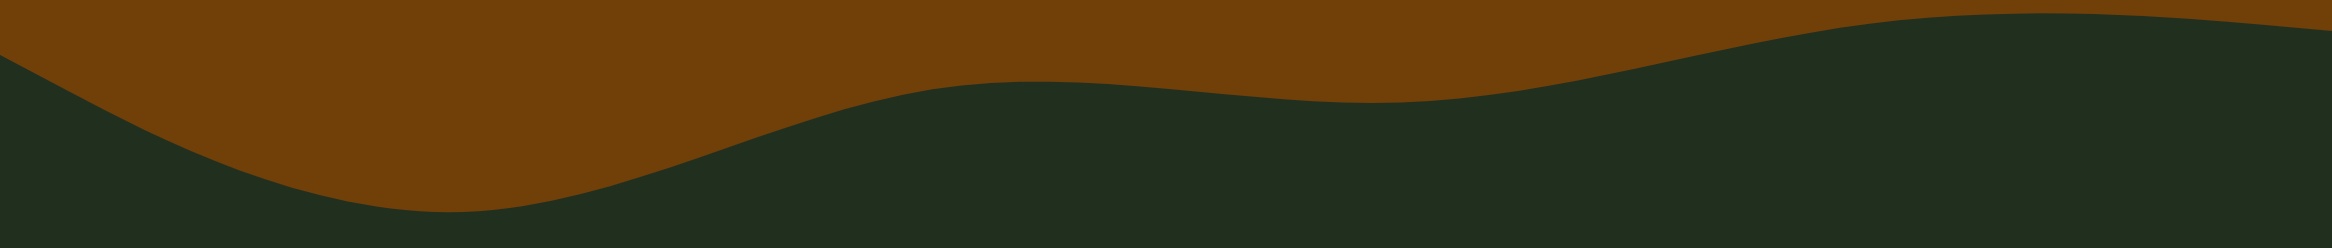
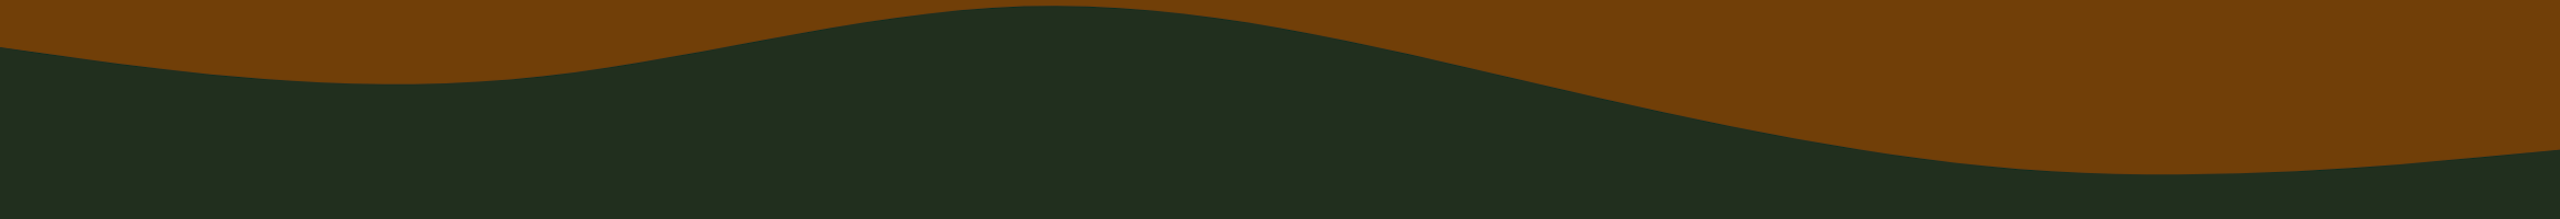
fixing deployment errors

diff --git a/src/components/ProjectsPreview.jsx b/src/components/ProjectsPreview.jsx
@@ -91,7 +91,7 @@ function ProjectCard({ title, image, desc, live, repo }) {
 export function ProjectsPreview() {
     return (
         <>
-            <div className="h-[1374px] xxs:h-[1356px] xs:h-[1382px] sm:h-[642px] md:h-[686px] xl:h-[724px]">
+            <div className="h-[1404px] xxs:h-[1380px] xs:h-[1452px] sm:h-[704px] md:h-[748px] lg:h-[788px] xl:h-[790px] 3xl:h-[846px] 4xl:h-[854px]">
                 <div className="text-[#cac9c9] bg-[#212f1d] w-full h-[192px] xxs:h-[172px] pl-4 md:pl-12 lg:pl-20 pr-3 md:pr-8 lg:pr-12 pt-8 flex flex-col sm:flex-row items-start sm:items-center absolute z-10">
                     <h1 className="w-max font-['Poppins'] text-5xl md:text-7xl lg:text-8xl font-bold">
                         projects
@@ -112,8 +112,8 @@ export function ProjectsPreview() {
                         some of the projects that I've been working on recently.
                     </p>
                 </div>
-                <div className="bg-[url(/waves-projects-haikei.png)] bg-no-repeat w-full h-[128px] mt-[136px] xxs:mt-[116px] xs:mt-[126px] xl:mt-[164px] absolute"></div>
-                <div className="bg-[#703f01] w-full h-[1136px] sm:h-[388px] md:h-[432px] mt-[240px] xxs:mt-[220px] xs:mt-[254px] xl:mt-[292px] px-3 pt-6 pb-4 absolute z-10">
+                <div className="bg-[url(/waves-projects2-haikei.png)] bg-cover bg-no-repeat w-full h-[226px] mt-[148px] xxs:mt-[124px] lg:mt-[158px] absolute"></div>
+                <div className="bg-[#703f01] w-full h-[1136px] sm:h-[388px] md:h-[432px] 3xl:h-[480px] mt-[268px] xxs:mt-[244px] xs:mt-[316px] lg:mt-[356px] xl:mt-[358px] 3xl:mt-[366px] 4xl:mt-[380px] px-3 pt-6 pb-4 absolute z-10">
                     <div className="h-full flex flex-col sm:flex-row items-center sm:justify-center">
                         {projects.map((el, idx) => {
                             return (

diff --git a/src/pages/index.js b/src/pages/index.js
@@ -29,19 +29,19 @@ export default function Home() {
         <>  
             <Header handleNavClick={handleNavClick}/>
             <Welcome />
-            {/* <div className="border-solid border-4 border-black box-border w-full"></div> */}
+            {/* <div className="border-solid border-4 border-black box-border z-30"></div> */}
             <div ref={aboutRef}>
                 <Bio />
             </div>
-            {/* <div className="border-solid border-4 border-black box-border w-full"></div> */}
+            {/* <div className="border-solid border-4 border-black box-border z-30"></div> */}
             <div ref={projectsRef}>
                 <ProjectsPreview />
             </div>
-            {/* <div className="border-solid border-4 border-black box-border w-full"></div> */}
+            {/* <div className="border-solid border-4 border-black box-border z-30"></div> */}
             <div ref={contactRef}>
                 <Contact/>
             </div>
-            {/* <div className="border-solid border-4 border-black box-border w-full"></div> */}
+            {/* <div className="border-solid border-4 border-black box-border z-30"></div> */}
             <Footer />
         </>
     );

diff --git a/src/components/Footer.jsx b/src/components/Footer.jsx
@@ -1,15 +1,15 @@
 export function Footer() {
     return (
         <>
-            <div className="w-full h-[248px] text-center absolute">
-                <p className="text-[#0e190d] mt-[224px] text-sm">
+            <div className="w-full h-[200px] text-center absolute">
+                <p className="text-[#0e190d] mt-[164px] text-sm lg:text-base">
                     designed and built by Kevin Stewart-Mercurio&nbsp;
                     <span className="invisible sm:visible absolute sm:static">
                         &#x2022; version 2.0 &#x2022; March 2023
                     </span>
                 </p>
             </div>
-            <div className="bg-[url(/waves-footer-haikei.png)] bg-no-repeat w-full h-[248px]"></div>
+            <div className="bg-[url(/waves-footer-haikei.png)] bg-cover bg-no-repeat w-full h-[200px]"></div>
         </>
     )
 }

diff --git a/src/pages/_document.js b/src/pages/_document.js
@@ -7,7 +7,7 @@ export default function Document() {
         <link rel="preconnect" href="https://fonts.googleapis.com" />
         <link rel="preconnect" href="https://fonts.gstatic.com" crossorigin />
         <link href="https://fonts.googleapis.com/css2?family=Inter:wght@300;400&family=Poppins:wght@400;600;700&display=swap" rel="stylesheet" />
-        <script src="https://kit.fontawesome.com/f06830f55e.js" crossorigin="anonymous"></script>
+        <script src="https://kit.fontawesome.com/f06830f55e.js" crossorigin="anonymous" async></script>
       </Head>
       <body>
         <Main />

diff --git a/src/components/Bio.jsx b/src/components/Bio.jsx
@@ -6,7 +6,7 @@ import codeReview from "../../public/undraw_code_review.png"
 export function Bio() {
     return (
         <>
-            <div className="bg-[#212f1d] w-full h-max pt-8 pb-32 flex flex-col">
+            <div className="bg-[#212f1d] w-full h-max pt-8 pb-24 flex flex-col">
                 <div className="text-[#cac9c9] h-max pl-4 md:pl-12 lg:pl-20 pr-3 md:pr-10 lg:pr-20 pt-7 pb-4">
                     <h1 className="font-['Poppins'] text-5xl md:text-7xl lg:text-8xl font-bold">
                         about me

diff --git a/tailwind.config.js b/tailwind.config.js
@@ -6,7 +6,10 @@ module.exports = {
             "sm": "640px",
             "md": "768px",
             "lg": "1024px",
-            "xl": "1280px"
+            "xl": "1280px",
+            "2xl": "1536px",
+            "3xl": "2300px",
+            "4xl": "2448px",
         }
     },
     content: [
